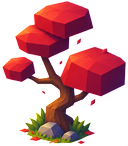
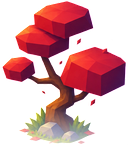
feat(collision+art): per-prop coreFrac + bottom-fade sprite bases
Realism pass, driven by "feet should never enter a prop's base"
and "the grass tuft at the bottom of each sprite pops against the
ground":

Art — bottom-fade band on every tree + rock sprite:
  - Alpha ramp on the bottom 28% of each PNG, from 1.0 at the
    top of the band to 0.25 at the very bottom edge. Applied
    in-place to tree_{1..4}.png and rock_{1..4}.png. The
    baked-in grass tufts blend into the arena ground instead
    of reading as a hard-edged sticker.

Engine — per-prop coreFrac override:
  - New PropEntity.coreFrac?: number. When set, replaces the
    global CORE_FRAC (0.30) for that prop's hard-core fraction.
  - New propCoreFrac(p) helper. Applied at all 4 prop-specific
    call sites (contact damage, character move resolution,
    animal move resolution, zombie move resolution) plus the
    brush-depth path via a new coreFrac param on
    depthFromOverlap. Animals + fence unchanged — they still
    use CORE_FRAC directly.

Forest arena — set profiles per shape:
  - Trees: coreFrac 0.25. Narrow trunk hard core, wide airy
    canopy brush ring. Character can graze the leaves for a
    small slow but not push through the trunk.
  - Rocks: coreFrac 0.60. Near-solid. Only a thin outer ring
    for the "brushed the edge" sound; no more feet halfway
    through a boulder.
  - Stumps: coreFrac 0.55. Also near-solid, and moved off the
    generic spawnPropAt helper onto an inline PropEntity spawn
    so the coreFrac lands.
[…]

Changed region(s): [[0.1562, 0.7397, 0.75, 0.9863]]

diff --git a/src/core/engine.ts b/src/core/engine.ts
@@ -124,16 +124,26 @@ export type BrushKind =
 
 // Convert raw overlap (how much the character's circle penetrates
 // into the brush ring) into a 0..1 depth value. depth=0 at outer
-// edge, depth=1 at the core boundary.
+// edge, depth=1 at the core boundary. Optional coreFrac lets a
+// per-prop override widen (rocks, solid all the way out) or
+// narrow (trees, airy canopy) the hard core.
 function depthFromOverlap(
   charR: number, obstacleR: number, distance: number,
+  coreFrac: number = CORE_FRAC,
 ): number {
-  const coreR = obstacleR * CORE_FRAC;
+  const coreR = obstacleR * coreFrac;
   const outerR = obstacleR + charR; // distance at which brush starts
   const innerR = coreR + charR;     // distance at which core hits
   if (distance >= outerR) return 0;
   if (distance <= innerR) return 1;
   return (outerR - distance) / (outerR - innerR);
+}
+
+// Effective hard-core fraction for a prop — honors the per-prop
+// override, falls back to the engine's global CORE_FRAC. Animals
+// and the fence aren't props and use the global constant only.
+function propCoreFrac(p: PropEntity): number {
+  return p.coreFrac ?? CORE_FRAC;
 }
 
 export class Engine {
@@ -517,7 +527,7 @@ export class Engine {
         if (!isProp(p)) continue;
         if (!p.contactDamage || p.contactDamage <= 0) continue;
         if (p.ownerId === c.id) continue;
-        const coreR = p.radius * CORE_FRAC;
+        const coreR = p.radius * propCoreFrac(p);
         const dx = c.pos.x - p.pos.x;
         const dy = c.pos.y - p.pos.y;
         const reach = c.radius + coreR;
@@ -959,7 +969,8 @@ export class Engine {
       const dx = c.pos.x - e.pos.x;
       const dy = c.pos.y - e.pos.y;
       const d = Math.hypot(dx, dy);
-      const d_brush = depthFromOverlap(c.radius, e.radius, d);
+      const cf = isPropObstacle ? propCoreFrac(e as PropEntity) : CORE_FRAC;
+      const d_brush = depthFromOverlap(c.radius, e.radius, d, cf);
       if (d_brush <= 0) continue;
       if (d_brush > worstDepth) worstDepth = d_brush;
       const kind: BrushKind = isPropObstacle
@@ -1027,7 +1038,7 @@ export class Engine {
         // Owner-passable props (Gravemarch Rock Wall) — caster
         // doesn't collide with their own arc.
         if (isProp(e) && (e as PropEntity).ownerId === c.id) continue;
-        const coreR = e.radius * CORE_FRAC;
+        const coreR = e.radius * (isProp(e) ? propCoreFrac(e) : CORE_FRAC);
         const dx = p.x - e.pos.x;
         const dy = p.y - e.pos.y;
         const minDist = c.radius + coreR;
@@ -1260,7 +1271,7 @@ export class Engine {
       if (!isProp(p) || !p.blocking) continue;
       const dx = newPos.x - p.pos.x;
       const dy = newPos.y - p.pos.y;
-      const coreR = p.radius * CORE_FRAC;
+      const coreR = p.radius * propCoreFrac(p);
       const minDist = a.radius + coreR;
       const d2 = dx * dx + dy * dy;
       if (d2 < minDist * minDist) {
@@ -1391,7 +1402,7 @@ export class Engine {
       if (!isProp(p) || !p.blocking) continue;
       const dx = newPos.x - p.pos.x;
       const dy = newPos.y - p.pos.y;
-      const coreR = p.radius * CORE_FRAC;
+      const coreR = p.radius * propCoreFrac(p);
       const minDist = z.radius + coreR;
       const d2 = dx * dx + dy * dy;
       if (d2 < minDist * minDist) {

diff --git a/src/arenas/forest.ts b/src/arenas/forest.ts
@@ -181,6 +181,11 @@ export function buildForest(world: World, seed: number, objectiveCount: number):
             dead: false,
             spriteVariant: species,
             spriteScale: scale,
+            // Narrow hard core (0.25) + wide brush ring — a tree
+            // is a thin trunk under an airy canopy. Character
+            // can graze the canopy for a small slow without
+            // being blocked; only the trunk itself is solid.
+            coreFrac: 0.25,
           });
           break;
         }
@@ -190,7 +195,9 @@ export function buildForest(world: World, seed: number, objectiveCount: number):
 
   // Stumps: ~8 (smaller, walkable around). Scattered — no
   // clumping; they naturally fall between tree clumps thanks to
-  // the shared tryPlace collision list.
+  // the shared tryPlace collision list. Stumps are near-solid
+  // like rocks (coreFrac 0.55) — a stump is a stump, not an
+  // airy canopy.
   {
     let attempts = 0;
     let count = 0;
@@ -199,7 +206,15 @@ export function buildForest(world: World, seed: number, objectiveCount: number):
       const x = b.minX + 30 + rng() * (b.maxX - b.minX - 60);
       const y = b.minY + 30 + rng() * (b.maxY - b.minY - 60);
       if (tryPlace(x, y, 16)) {
-        spawnPropAt(x, y, "stump", 14, true);
+        world.spawn<PropEntity>({
+          kind: "prop",
+          pos: { x, y },
+          radius: 14,
+          shape: "stump",
+          blocking: true,
+          dead: false,
+          coreFrac: 0.55,
+        });
         count++;
       }
     }
@@ -237,6 +252,11 @@ export function buildForest(world: World, seed: number, objectiveCount: number):
           dead: false,
           spriteVariant: variant,
           spriteScale: scale,
+          // Rocks are near-solid — hard core covers 60% of the
+          // radius, only a thin brush ring for the "you nudged
+          // the edge" sound. No pushing your feet halfway
+          // through a boulder.
+          coreFrac: 0.60,
         });
         count++;
       }

diff --git a/src/core/entity.ts b/src/core/entity.ts
@@ -251,6 +251,12 @@ export interface PropEntity extends BaseEntity {
   // hold that species even as ids advance around them. Defaults
   // to using entity.id when unset.
   spriteVariant?: number;
+  // Optional per-prop override for CORE_FRAC (the fraction of
+  // `radius` that's the unpassable hard core; the outer 1-frac is
+  // brush zone). Lets rocks be near-solid (0.60), trees be a
+  // narrow trunk with a wide airy canopy (0.25), while defaulting
+  // to the engine's global CORE_FRAC (0.30) when unset.
+  coreFrac?: number;
 }
 
 // Iron plate placed by Magnek. Persistent (no ttl), non-blocking, navigable
